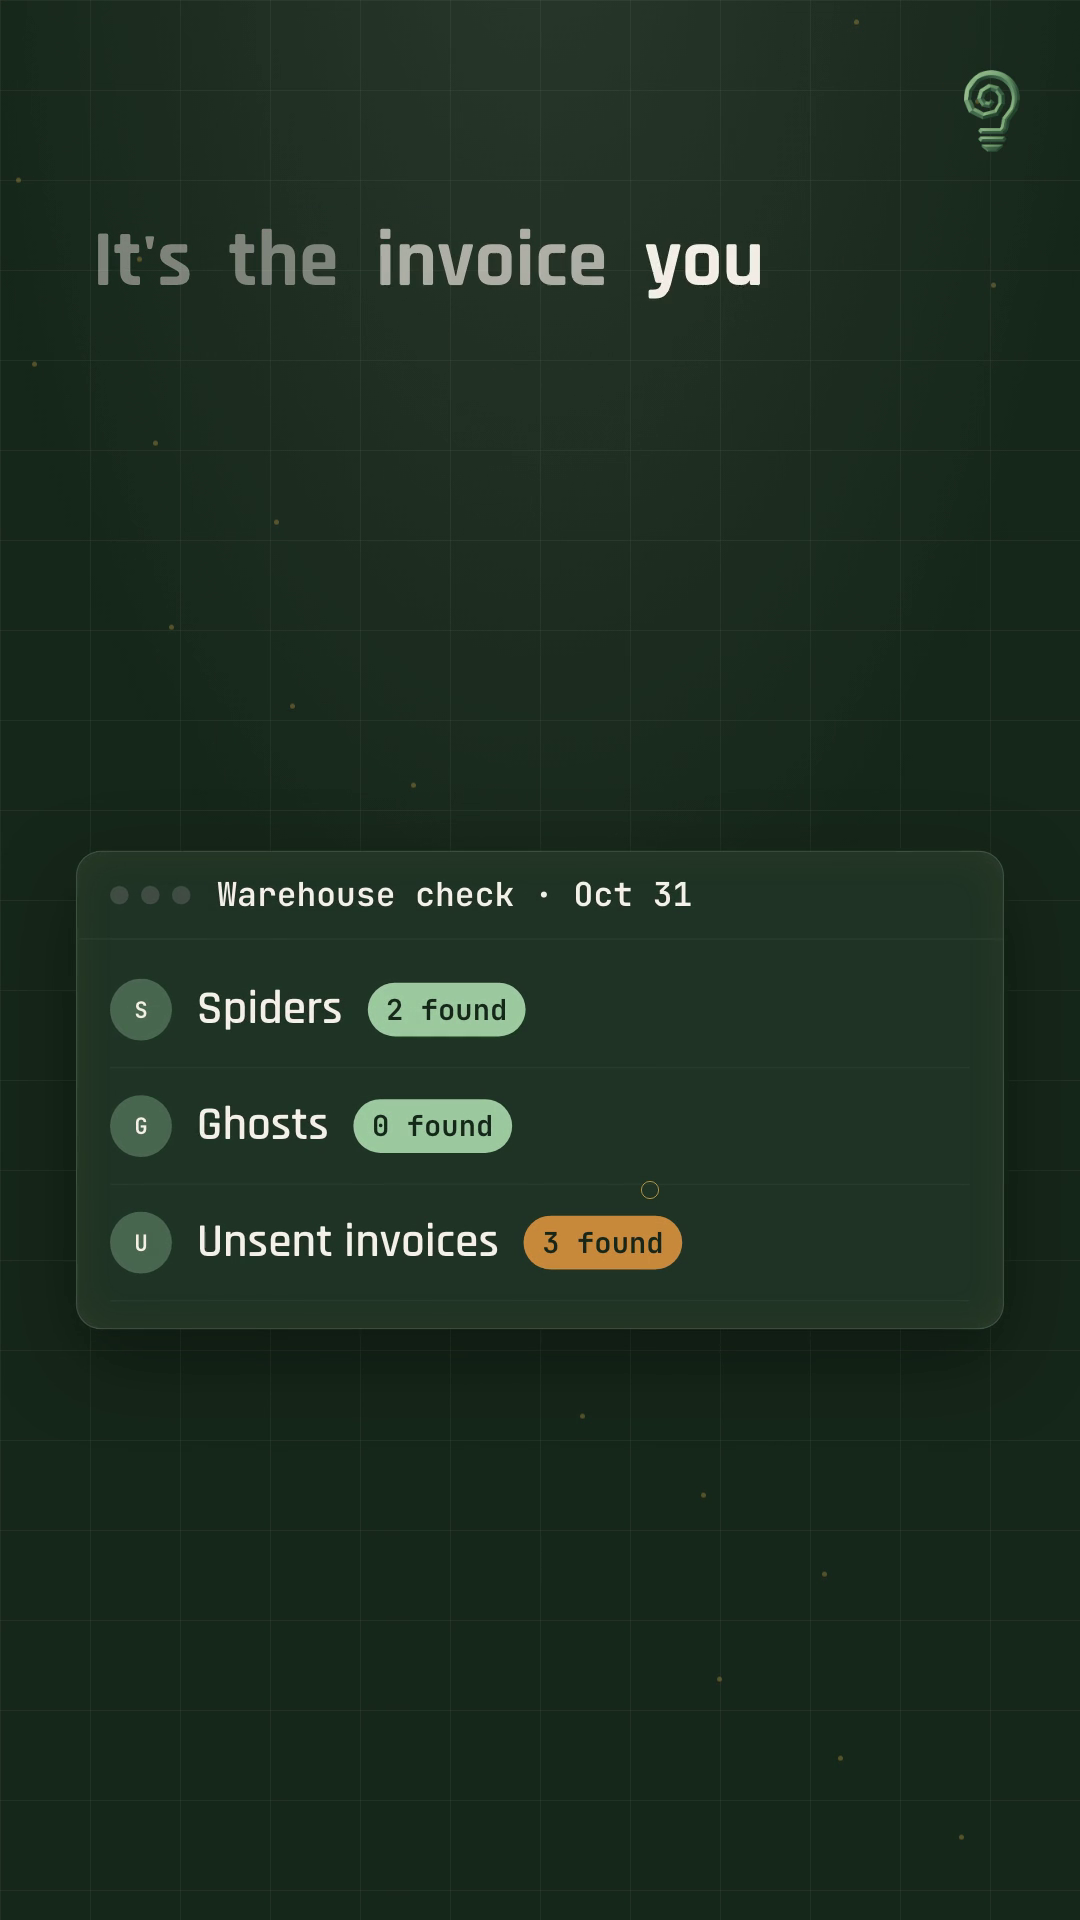
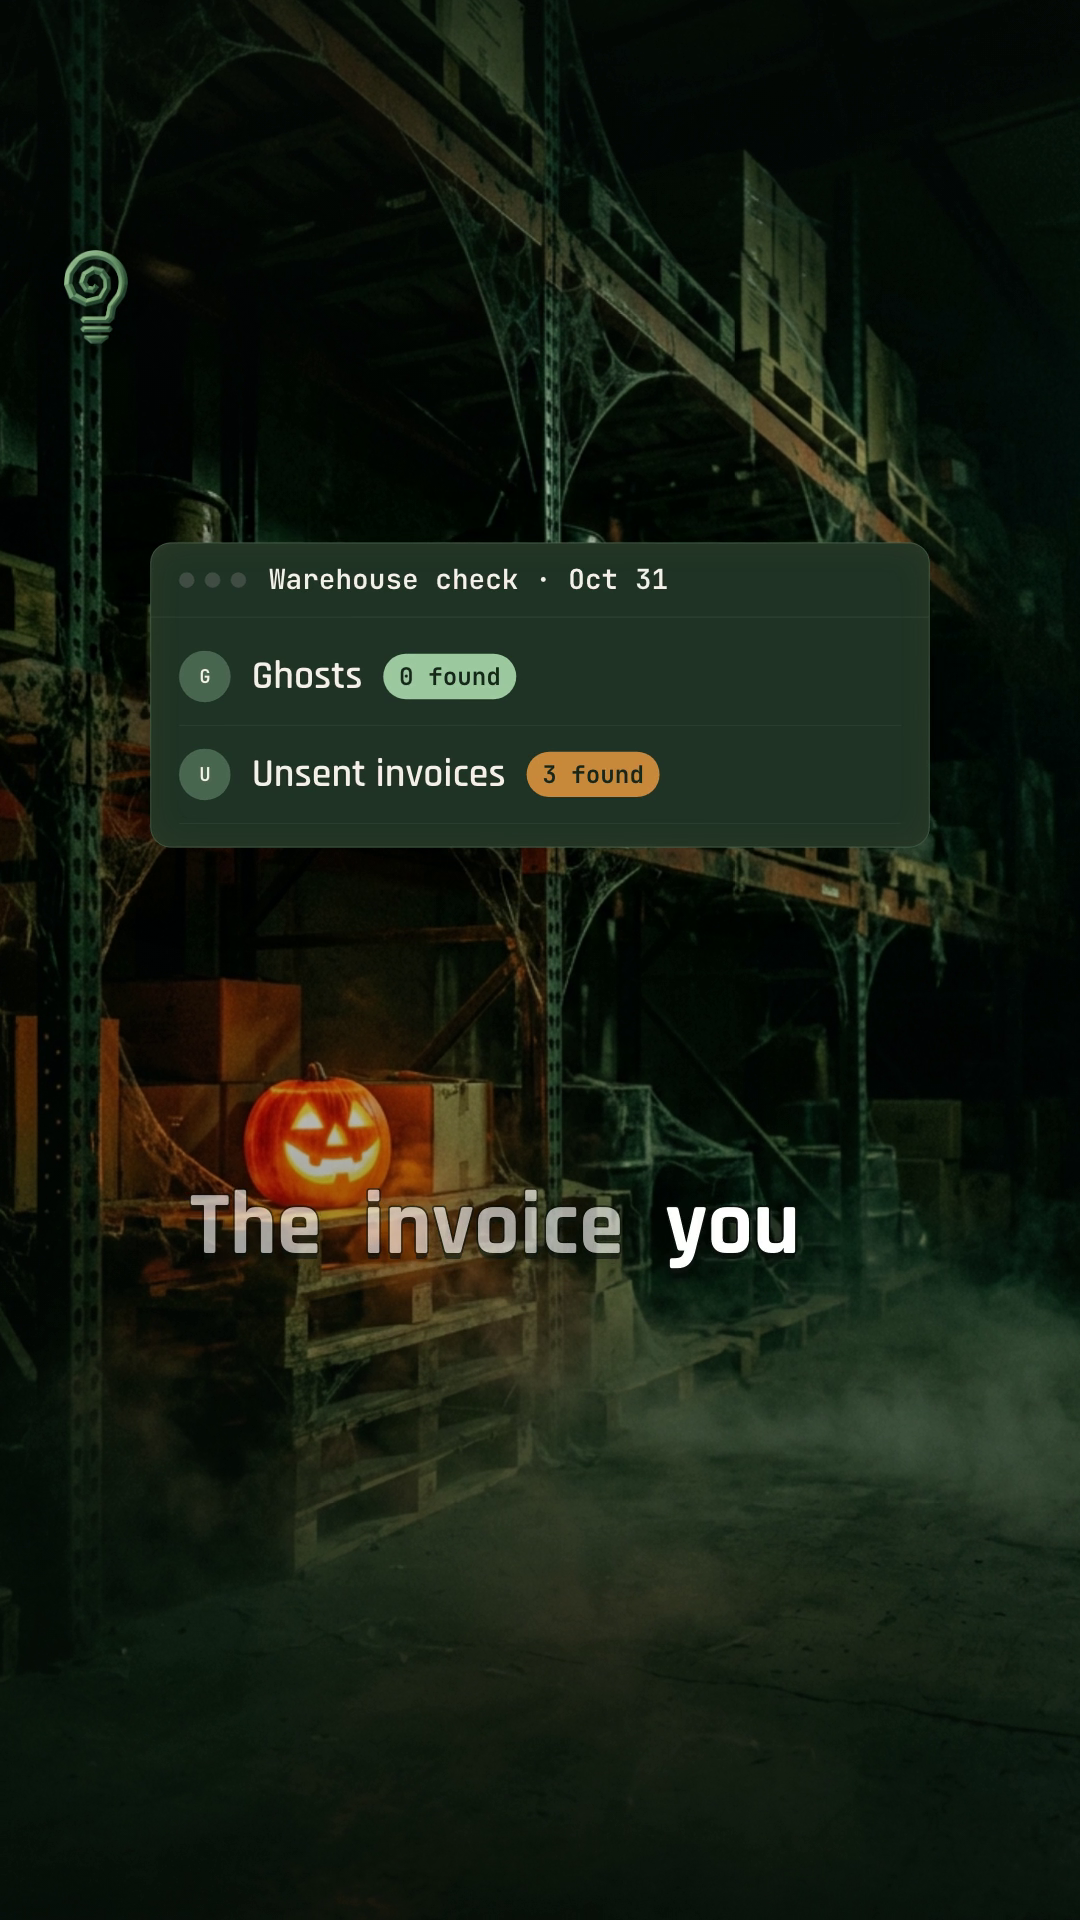
STATUS.md handoff

diff --git a/templates/story/index.html b/templates/story/index.html
@@ -28,7 +28,7 @@
   .dust { position: absolute; width: 5px; height: 5px; border-radius: 50%; background: var(--gold); opacity: .3; }
 
   /* Captions */
-  .caps { position: absolute; left: 60px; right: 150px; top: 1180px; text-align: center; font: 700 90px/1.05 var(--f-head); -webkit-text-stroke: 3px #0B140E; paint-order: stroke fill; text-shadow: 0 6px 0 #0B140E, 0 0 18px rgba(0,0,0,.5); transition: none; z-index: 5; }
+  .caps { position: absolute; left: 60px; right: 150px; top: 1010px; text-align: center; font: 700 90px/1.05 var(--f-head); -webkit-text-stroke: 3px #0B140E; paint-order: stroke fill; text-shadow: 0 6px 0 #0B140E, 0 0 18px rgba(0,0,0,.5); transition: none; z-index: 5; }
   .caps .line { position: absolute; left: 0; right: 0; top: 0; }
   .caps .w { display: inline-block; margin: 0 .12em; position: relative; opacity: 0; }
   .dark-on .caps { color: #FFFFFF; }
@@ -39,8 +39,8 @@
   .light-on { --kc: #17281C; }
 
   /* Scenes */
-  .scene { position: absolute; left: 0; right: 0; top: 240px; bottom: 770px; display: flex; align-items: center; justify-content: center; opacity: 0; }
-  .scene > * { zoom: .84; }
+  .scene { position: absolute; left: 0; right: 0; top: 260px; bottom: 940px; display: flex; align-items: center; justify-content: center; opacity: 0; }
+  .scene > * { zoom: .78; }
   .card { width: 900px; border-radius: 24px; overflow: hidden; }
   .dark .card, .card.d { background: #1F3426; border: 1px solid rgba(156,202,160,.25); box-shadow: 0 0 40px rgba(232,184,75,.08) inset, 0 30px 80px rgba(0,0,0,.35); color: var(--cream); }
   .light .card, .card.l { background: #fff; border: 1px solid rgba(23,40,28,.12); box-shadow: 0 24px 60px rgba(23,40,28,.12); color: var(--ink); }
@@ -169,11 +169,11 @@
   .face.corner { left: 300px; top: 1040px; width: 780px; height: 880px; z-index: 5; }
   .face.corner video { object-position: 50% 28%; }
   .face.corner:not(.cut) { border-radius: 40px 0 0 0; border: 4px solid var(--gold); border-right: 0; border-bottom: 0; }
-  .mark { position: absolute; left: 64px; top: 250px; width: 64px; z-index: 6; filter: drop-shadow(0 0 10px rgba(0,0,0,.6)); }
-  .badge { position: absolute; left: 40px; top: 1540px; z-index: 6; display: flex; align-items: center; gap: 16px; padding: 14px 24px 14px 16px; border-radius: 18px; background: rgba(23,40,28,.92); border: 3px solid var(--gold); box-shadow: 0 10px 30px rgba(0,0,0,.4), 0 0 24px rgba(232,184,75,.35); }
+  .mark { position: absolute; left: 50%; margin-left: -32px; top: 245px; width: 64px; z-index: 6; filter: drop-shadow(0 0 10px rgba(0,0,0,.6)); }
+  .badge { position: absolute; left: 50%; margin-left: -230px; width: 460px; justify-content: center; top: 1440px; z-index: 6; display: flex; align-items: center; gap: 16px; padding: 14px 24px 14px 16px; border-radius: 18px; background: rgba(23,40,28,.92); border: 3px solid var(--gold); box-shadow: 0 10px 30px rgba(0,0,0,.4), 0 0 24px rgba(232,184,75,.35); }
   .badge img.b { width: 46px; filter: drop-shadow(0 0 10px rgba(156,202,160,.8)); }
   .badge img.w { height: 26px; }
-  .branded .mark { width: 78px; top: 250px; left: 60px; filter: drop-shadow(0 0 14px rgba(156,202,160,.9)) drop-shadow(0 4px 6px rgba(0,0,0,.6)); }
+  .branded .mark { width: 78px; top: 240px; left: 50%; margin-left: -39px; filter: drop-shadow(0 0 14px rgba(156,202,160,.9)) drop-shadow(0 4px 6px rgba(0,0,0,.6)); }
   .scenes { position: absolute; inset: 0; z-index: 4; }
   .sticker { position: absolute; z-index: 5; opacity: 0; transform-origin: 50% 100%; filter: drop-shadow(0 0 3px rgba(0,0,0,.6)) drop-shadow(0 20px 30px rgba(0,0,0,.4)); }
   .scenes.split .scene { top: 230px; bottom: 1110px; }
@@ -465,7 +465,7 @@ window.renderPost = (data) => {
     tl.set(el, { opacity: 0 }, k.end);
     window.sfx.push({ t: k.t, kind: 'tick' });
   });
-  if (data.branded) { tl.set('#badge', { opacity: 0 }, 0).fromTo('#badge', { opacity: 1, x: -500 }, { x: 0, duration: 0.4, ease: 'back.out(1.6)', immediateRender: false }, Math.max(0, data.duration - 3.2)); tl.to('#cv .mark', { rotation: 360, duration: 0.8, ease: 'back.out(1.4)' }, 0.1); }
+  if (data.branded) { tl.set('#badge', { opacity: 0 }, 0).fromTo('#badge', { opacity: 1, y: 60, scale: 0.6 }, { y: 0, scale: 1, duration: 0.4, ease: 'back.out(1.6)', immediateRender: false }, Math.max(0, data.duration - 3.2)); tl.to('#cv .mark', { rotation: 360, duration: 0.8, ease: 'back.out(1.4)' }, 0.1); }
   if (data.hook && window.hookEnd) { tl.set('#scs', { opacity: 0 }, 0).set('#scs', { opacity: 1 }, window.hookEnd); tl.set('.caps', { opacity: 0 }, 0).set('.caps', { opacity: 1 }, Math.min(window.hookEnd, 1.2)); }
   tl.set({}, {}, data.duration);
   window.faceVideo = data.face ? document.getElementById('fv') : null;

diff --git a/CLAUDE.md b/CLAUDE.md
@@ -25,6 +25,8 @@ Plans, produces and queues social content for Content Systems.ai. Owner: Korede 
 - **Voices**: Korede = `HEYGEN_INSTANT_VOICE_ID`; Sanjana Dave (co-founder, Head of Sales) = `HEYGEN_SANJANA_VOICE_ID` (instant clone from the VSL, sample `assets/talking-head/sanjana-voice-sample.mp3`), both free via `freeSpeech()` in `scripts/lib/heygen.mjs`. Faceless company narrators via `ttsCreator` (pass a female `styleText` for women): male `Brio`, female `Tavi` (`voice: 'female'`; alt `Kore`). Mix voices across videos: Sanjana or the female narrator on some company videos, never Sanjana on @koredekola.
 - **Videos feel alive**: content first, Korede's face as seasoning. Not pastel or plain: saturated colour fields drifting in the background, floating logos of the companies discussed (`bgLogos`), brand colours of whoever we're talking about (config/brands.json: Claude orange, OpenAI black/green, Walmart blue/yellow...), `brand` and `vs` scenes, word-timed `pops` (logos, pixel characters, meme bursts), real screenshots, sound effects on every event. Make some logo-battle videos (templates/arena) and some stop-motion/cut-paper pieces (HyperFrames).
 - **Company videos are value, not ads (Korede)**: each one teaches 1 genuinely useful thing (a number, a mistake, a check, a story with a lesson) that an operator would save or send. A light 1-line pitch mid-video is fine (Korede, 2026-10-23); value stays the core; Content Systems.ai wordmark only in the last ~3 s (`branded` does this), the bulb mark can stay up; soft CTA (free checklist) at the end.
+- **Logo placement**: the bulb mark is centred at the top (just below the Instagram header, y ~245) and the end wordmark badge is centred, never left or right.
+- **Caption placement**: story-video captions sit just below the middle of the screen (top y 1010 of 1920), never in the lower third where the thumb rests.
 - **Visual hooks first, face where it fits**: open every video with a big visual hook in the first 1 to 2 s (arcade blasters firing at company logos, logos shattering, a stomp, a counter exploding, a meme collage). Korede's talking face appears only where it adds something (hook line, reaction, CTA), never the whole video; personal videos feature him 2 to 3 times spread out (EXCEPT logo-battle / arena 'war' videos: no Korede video at all, Korede's call 2026-10-23; use his pixel avatar instead: `scripts/pixel-host.sh <post> "s-e:point,s-e:shrug,s-e:cheer"`) (beginning, middle, end) to keep brains switching, never only at the end.
 - **Colour discipline (Korede: "not a pride flag")**: max 3 hues per frame: brand ink-green and gold as the base plus 1 strong accent, ideally the brand colour of the company being discussed (`vb` / brand scenes). Vivid, saturated and moving, but never rainbow confetti. Carousel bursts: 1 or 2 colours per slide.
 - **Cadence**: no long pauses. Run `node scripts/tighten.mjs audio/vo.wav` (pauses over 0.3 s become 0.16 s; `--words` remaps hand-fixed timings) before transcribing or rendering.

diff --git a/STATUS.md b/STATUS.md
@@ -1,0 +1,18 @@
+# Status / handoff (updated 2026-10-23 ~13:00 Berlin)
+
+Read CLAUDE.md first (all Korede's rules are there). This file says what's done and what's left.
+
+## Done (drafts, not yet queued in Schedchie)
+- W43 (Fri Oct 23) and W44 (Oct 26 to Nov 1): plans, research, 23 pixel carousels/statics (vibrant 4-world restyle), freebie PDFs (9), workshop curiosity-loop rewrites.
+- Videos done: stop-motion (ig-company-fri-1500-sops-portable-stopmotion), 2 arena logo battles (pixel Korede host, no real face), 3 AI-slop reels, 3 Kling 4.0 straight swaps (LFC kit), Mon walmart-vs-amazon story (talking cutout).
+- Voices: Korede HEYGEN_INSTANT_VOICE_ID, Sanjana HEYGEN_SANJANA_VOICE_ID, narrator HEYGEN_NARRATOR_VOICE_ID (all free via scripts/lib/heygen.mjs freeSpeech).
+
+## In progress when the session paused
+1. 7 company story videos rewritten value-first (voices Korede/Sanjana/narrator): content/2026-W43/ig-company-fri-1800-invoice-gap + W44 ig-company-{mon-1130,sat-1000,sun-1830,thu-1130,tue-1130}*, li-company-tue-1030*. Check each folder: if video.mp4 is older than render.json or audio/vo.wav, re-render: `npm run render -- <dir>` (ONE AT A TIME; wait while `pgrep -f scripts/render.mjs`).
+2. Personal visual pass (scene `bg` images + `person` thought-leader cards + logo pops): W44 ig-personal-{mon-1230,fri-1230,sun-0930,tue-1230,wed-1230}*, li-personal-tue-0800*, W43 ig-personal-fri-1230*. Same staleness check + re-render.
+3. Latest template changes every story video must have (re-render anything older than templates/story/index.html, 2026-10-23 ~12:50): captions at y 1010 (above thumb), bulb logo centred top, end badge centred, high-contrast worlds.
+
+## After that
+- Frame-strip review of every video (ffmpeg -ss T ... hstack), lint all (`npm run lint -- content/2026-W43 content/2026-W44`), commit + push (`git pull --rebase --autostash` first; the cloud research routine pushes daily).
+- Phase 4 (only when Korede approves): Schedchie held posts. Company Instagram account in Schedchie needs reconnecting by Korede.
+- kie.ai balance is low (~$0.69); top up before any new swaps/lip-syncs.

diff --git a/.claude/skills/story-reel/SKILL.md b/.claude/skills/story-reel/SKILL.md
@@ -45,7 +45,7 @@ Example: `content/_samples/ig-company-fri-1130-invoice-gap/`.
 
 ## Placement (Reels/TikTok safe zones, Korede's rule: "psychologically perfect")
 - UI covers the top ~220px, bottom ~420px and right ~120px. Nothing important there.
-- Captions live in the lower-middle sweet spot (y 1180 to 1360, about 2/3 down, centred) where the eye rests; cards sit above them (y 240 to 1150). On `split` the captions move to the seam (y 845); on `corner` they sit just above Korede's head (y 860). The template does this automatically.
+- Captions sit just below the middle (top y 1010, about 53 in 100 down), above the thumb zone (Korede: lower captions sit under his thumb); cards sit above them (y 260 to 980). On `split` the captions move to the seam (y 845); on `corner` they sit just above Korede's head (y 860). The template does this automatically.
 - Korede's eyes sit on the upper-third line (y about 640) in `full` shots, face centred, never cropped; punch-ins max 1.15 and only on chosen words (`pushAt`).
 - Talking cutout of Korede: real lip-synced video only (`node scripts/heygen.mjs talk-segments <post> 0-5.7,23.3-28.2,...` lip-syncs only the windows he's on screen, cheap). `faceCuts[].cut: true` uses the cutout (with `bg` pixel-day|pixel-night|pixel-sunset|pixel-neon for `full`), `cut: false` the normal studio shot. Mix them: not every video or moment is a cutout; use plain `split` at some points. Layouts: full, split, corner (cutout bottom-right over the cards), pip, none.
 - Music: personal = dark rage-trap type beat, company = calm modern electronic. `music.volume` about 0.11 (well under the voice, ducked). The beat drop lands early: default 2 s in, or `music.dropAt: "<word>"` on the hook's turn. No long intro with the drop mid-video.
